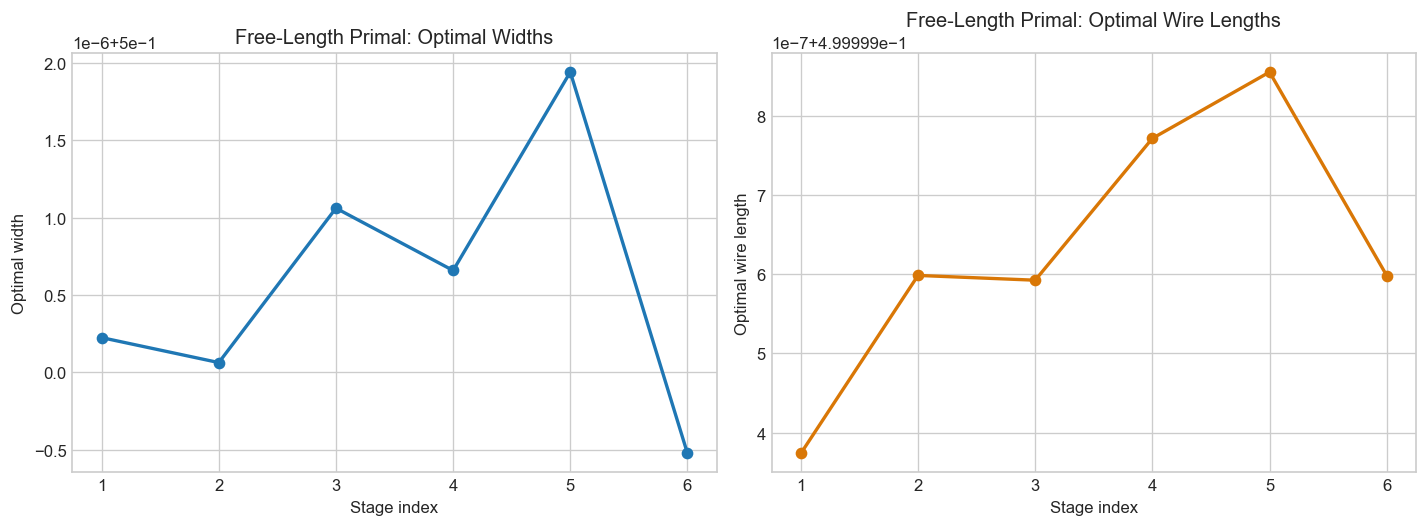
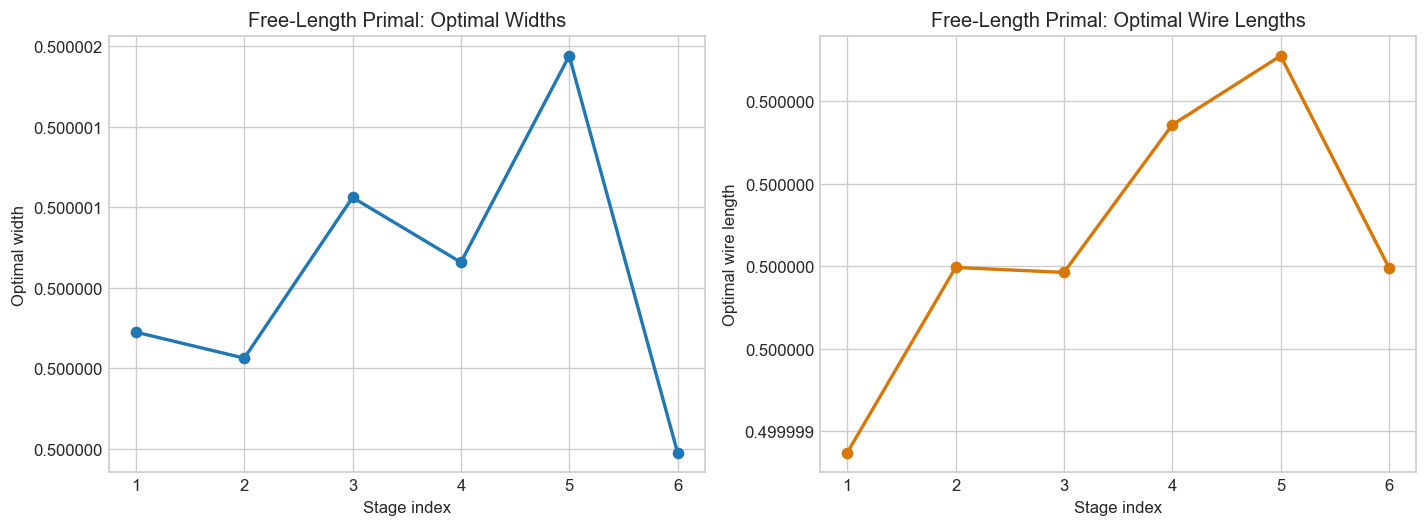
updated images

diff --git a/203b.tex b/203b.tex
@@ -705,7 +705,7 @@ To benchmark the wire-aware model, we compared it with a Boyd-style simplified b
     \label{fig:free_length}
 \end{figure}
 
-Finally, we returned to the unrestricted formulation in which both $W_i$ and $l_i$ are optimized. Figure~\ref{fig:free_length} shows that, in the tested regime, the unrestricted primal drives both the inverter widths and the wire lengths to their lower bounds, up to very small numerical deviations visible only through the plot offsets. This confirms the degeneracy concern that motivated the fixed-profile setup in the main simulation. At the same time, the unrestricted primal objective was $1.0576163$, the dual-implied objective was $1.0576159$, and the log-domain duality gap was approximately $3.94 \times 10^{-7}$. This provides numerical support for the dual formulation while also showing that the unrestricted problem, although mathematically consistent, is less physically informative for simulation purposes.
+Finally, we returned to the unrestricted formulation in which both $W_i$ and $l_i$ are optimized. Figure~\ref{fig:free_length} shows that, in the tested regime, the unrestricted primal drives both the inverter widths and the wire lengths to their lower bounds, up to very small numerical deviations. This confirms the degeneracy concern that motivated the fixed-profile setup in the main simulation. At the same time, the unrestricted primal objective was $1.0576163$, the dual-implied objective was $1.0576159$, and the log-domain duality gap was approximately $3.94 \times 10^{-7}$. This provides numerical support for the dual formulation while also showing that the unrestricted problem, although mathematically consistent, is less physically informative for simulation purposes.
 
 \subsection{Conclusion}
 
